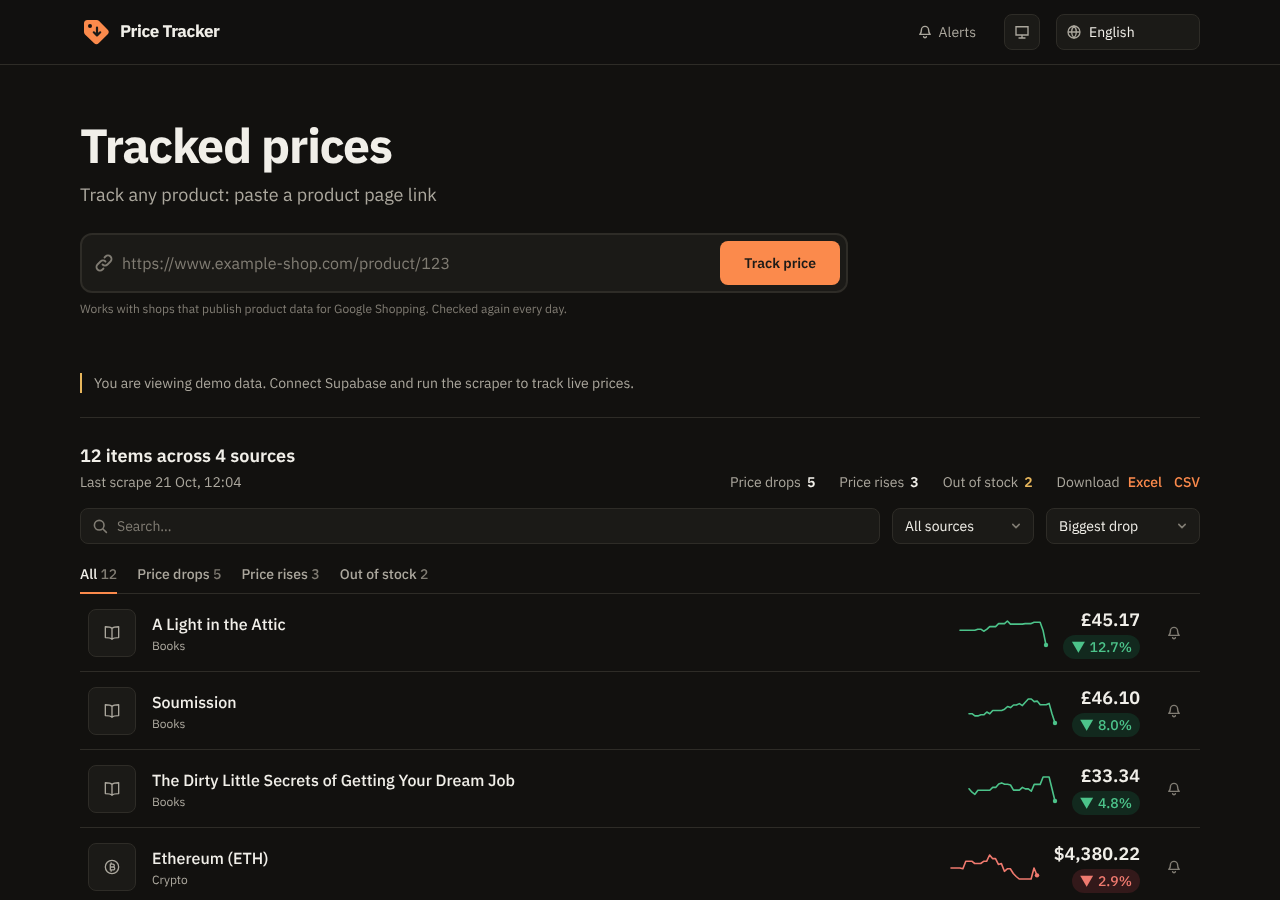
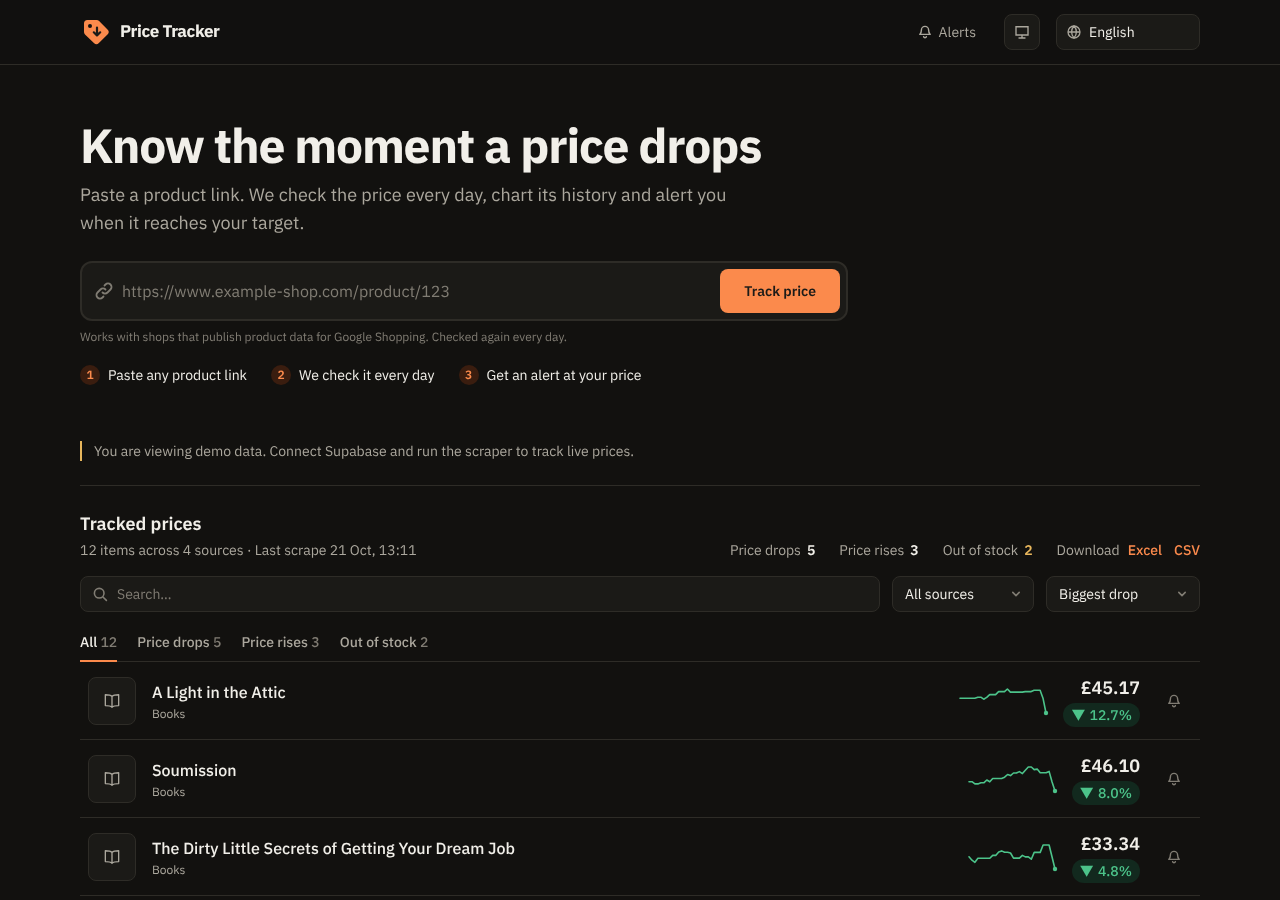
Home hero says what the site does, shows the paste box to signed-out visitors and keeps their link through sign-in
Claude-Session: https://claude.ai/code/session_01MPqhSGDmMshZ6xy3Hb712z

diff --git a/web/src/components/TrackForm.tsx b/web/src/components/TrackForm.tsx
@@ -1,11 +1,13 @@
 "use client";
 
 import { useRouter } from "next/navigation";
-import { useState } from "react";
+import { useEffect, useState } from "react";
 import { useI18n } from "@/i18n/client";
 import { money } from "@/lib/format";
 import { useUser } from "@/lib/auth";
 import { authEnabled } from "@/lib/supabase/client";
+
+const PENDING_KEY = "pending-link";
 
 type Preview = { title: string; price: number; currency: string | null };
 type State = { kind: "idle" | "saving" } | { kind: "demo"; product: Preview } | { kind: "error"; message: string };
@@ -16,9 +18,27 @@ export function TrackForm() {
   const [url, setUrl] = useState("");
   const [state, setState] = useState<State>({ kind: "idle" });
   const user = useUser();
+  const signedOut = authEnabled && user === null;
+
+  // A link pasted before signing in waits here and is back in the box after sign-in.
+  useEffect(() => {
+    try {
+      const pending = sessionStorage.getItem(PENDING_KEY);
+      if (!pending) return;
+      sessionStorage.removeItem(PENDING_KEY);
+      setUrl(pending); // eslint-disable-line react-hooks/set-state-in-effect -- browser-only storage, read once after mount
+    } catch {}
+  }, []);
 
   async function submit(e: React.FormEvent) {
     e.preventDefault();
+    if (signedOut) {
+      try {
+        sessionStorage.setItem(PENDING_KEY, url);
+      } catch {}
+      router.push(href("/login"));
+      return;
+    }
     setState({ kind: "saving" });
     const res = await fetch("/api/track", {
       method: "POST",
@@ -36,29 +56,13 @@ export function TrackForm() {
     else setState({ kind: "error", message: apiError(json?.error) });
   }
 
-  if (authEnabled && !user) {
-    return (
-      <div className="flex flex-col gap-3 rounded-xl border border-line bg-card p-3 ps-4 sm:flex-row sm:items-center">
-        <p className="flex-1 text-sm text-muted">{t.track.signIn}</p>
-        {user === null && (
-          <a
-            href={href("/login")}
-            className="shrink-0 rounded-lg bg-accent px-4 py-2.5 text-center text-sm font-semibold text-accent-ink hover:opacity-90"
-          >
-            {t.alertForm.signInButton}
-          </a>
-        )}
-      </div>
-    );
-  }
-
   return (
     <div>
       <form onSubmit={submit}>
         <label htmlFor="track-url" className="sr-only">
           {t.track.label}
         </label>
-        <div className="flex items-center gap-2 rounded-xl border-2 border-line bg-card p-1.5 ps-3 focus-within:border-accent">
+        <div className="flex flex-wrap items-center gap-2 rounded-xl border-2 border-line bg-card p-1.5 ps-3 focus-within:border-accent sm:flex-nowrap">
           <svg
             viewBox="0 0 20 20"
             className="size-5 shrink-0 text-faint"
@@ -78,12 +82,12 @@ export function TrackForm() {
             placeholder={t.track.placeholder}
             value={url}
             onChange={(e) => setUrl(e.target.value)}
-            className="h-11 min-w-0 flex-1 bg-transparent text-base text-ink placeholder:text-faint focus:outline-none"
+            className="h-11 min-w-0 flex-1 basis-40 bg-transparent text-base text-ink placeholder:text-faint focus:outline-none"
           />
           <button
             type="submit"
             disabled={state.kind === "saving"}
-            className="h-11 shrink-0 rounded-lg bg-accent px-4 text-sm font-semibold text-accent-ink hover:opacity-90 disabled:opacity-60 sm:px-6"
+            className="h-11 w-full shrink-0 rounded-lg bg-accent px-4 text-sm font-semibold text-accent-ink hover:opacity-90 disabled:opacity-60 sm:w-auto sm:px-6"
           >
             {state.kind === "saving" ? t.track.reading : t.track.submit}
           </button>
@@ -99,7 +103,7 @@ export function TrackForm() {
           {fill(t.track.found, { title: state.product.title, price: money(state.product.price, state.product.currency, lang) })}
         </p>
       )}
-      <p className="mt-2 text-xs text-faint">{t.track.hint}</p>
+      <p className="mt-2 text-xs text-faint">{signedOut ? t.track.signIn : t.track.hint}</p>
     </div>
   );
 }

diff --git a/web/src/app/[lang]/page.tsx b/web/src/app/[lang]/page.tsx
@@ -22,9 +22,19 @@ export default async function Home({ params }: PageProps<"/[lang]">) {
   return (
     <main className="mx-auto w-full max-w-6xl px-4 pb-12">
       <section className="max-w-3xl py-6 sm:py-14">
-        <h1 className="text-3xl font-bold tracking-tight text-balance sm:text-5xl">{t.home.title}</h1>
-        <p className="mt-2 mb-5 text-base text-muted sm:mt-3 sm:mb-6 sm:text-lg">{t.track.label}</p>
+        <h1 className="text-3xl font-bold tracking-tight text-balance sm:text-5xl">{t.home.heroTitle}</h1>
+        <p className="mt-2 mb-5 max-w-2xl text-base text-pretty text-muted sm:mt-3 sm:mb-6 sm:text-lg">{t.home.heroLead}</p>
         <TrackForm />
+        <ol className="mt-5 hidden flex-wrap gap-x-6 gap-y-2 text-sm text-ink sm:flex">
+          {[t.home.step1, t.home.step2, t.home.step3].map((step, i) => (
+            <li key={i} className="flex items-center gap-2">
+              <span className="grid size-5 place-items-center rounded-full bg-accent-soft text-xs font-semibold text-accent tabular-nums" aria-hidden>
+                {i + 1}
+              </span>
+              {step}
+            </li>
+          ))}
+        </ol>
       </section>
 
       {isDemo && (
@@ -33,16 +43,17 @@ export default async function Home({ params }: PageProps<"/[lang]">) {
 
       <div className="mb-4 flex flex-wrap items-end justify-between gap-x-8 gap-y-3 border-t border-line pt-6">
         <div>
-          <h2 className="text-lg font-semibold">
-            {fill(t.home.summary, { items: products.length, sources: new Set(products.map((p) => p.source)).size })}
-          </h2>
-          <p className="mt-0.5 text-sm text-muted">{lastRun ? fill(t.home.lastScrape, { date: dateTime(lastRun, lang) }) : t.home.noScrapes}</p>
+          <h2 className="text-lg font-semibold">{t.home.title}</h2>
+          <p className="mt-0.5 text-sm text-muted">
+            {fill(t.home.summary, { items: products.length, sources: new Set(products.map((p) => p.source)).size })} ·{" "}
+            {lastRun ? fill(t.home.lastScrape, { date: dateTime(lastRun, lang) }) : t.home.noScrapes}
+          </p>
         </div>
         <dl className="flex flex-wrap gap-x-6 gap-y-1 text-sm">
           <Figure label={t.home.priceDrops} value={drops} tone="text-ink" />
           <Figure label={t.home.priceRises} value={rises} tone="text-ink" />
           <Figure label={t.home.outOfStock} value={outOfStock} tone={outOfStock ? "text-warn" : "text-ink"} />
-          <div className="flex items-baseline gap-2">
+          <div className="hidden items-baseline gap-2 sm:flex">
             <dt className="text-muted">{t.home.download}</dt>
             <dd className="flex gap-3 font-medium">
               <a href={`/api/export?format=xlsx&lang=${lang}`} className="text-accent underline-offset-4 hover:underline">

diff --git a/web/src/i18n/dictionaries/hi.ts b/web/src/i18n/dictionaries/hi.ts
@@ -41,6 +41,11 @@ const hi: Dict = {
     custom: "लिंक से जोड़े गए",
   },
   home: {
+    heroTitle: "कीमत गिरते ही जानें",
+    heroLead: "किसी प्रोडक्ट का लिंक पेस्ट करें। हम हर दिन कीमत जाँचते हैं, उसका इतिहास दिखाते हैं और आपके लक्ष्य तक पहुँचने पर सूचना देते हैं।",
+    step1: "किसी भी प्रोडक्ट का लिंक पेस्ट करें",
+    step2: "हम इसे हर दिन जाँचते हैं",
+    step3: "अपनी कीमत पर अलर्ट पाएँ",
     title: "ट्रैक की जा रही कीमतें",
     lastScrape: "पिछला स्क्रेप {date}",
     noScrapes: "अभी तक कोई स्क्रेप नहीं",

diff --git a/web/src/i18n/dictionaries/th.ts b/web/src/i18n/dictionaries/th.ts
@@ -41,6 +41,11 @@ const th: Dict = {
     custom: "เพิ่มจากลิงก์",
   },
   home: {
+    heroTitle: "รู้ทันทีเมื่อราคาลดลง",
+    heroLead: "วางลิงก์สินค้า เราตรวจราคาทุกวัน แสดงประวัติราคา และแจ้งเตือนเมื่อถึงราคาที่คุณต้องการ",
+    step1: "วางลิงก์สินค้าใดก็ได้",
+    step2: "เราตรวจทุกวัน",
+    step3: "รับการแจ้งเตือนที่ราคาของคุณ",
     title: "ราคาที่ติดตาม",
     lastScrape: "ดึงข้อมูลล่าสุด {date}",
     noScrapes: "ยังไม่มีการดึงข้อมูล",

diff --git a/web/src/i18n/dictionaries/el.ts b/web/src/i18n/dictionaries/el.ts
@@ -41,6 +41,11 @@ const el: Dict = {
     custom: "Προστέθηκαν με σύνδεσμο",
   },
   home: {
+    heroTitle: "Μάθε αμέσως πότε πέφτει μια τιμή",
+    heroLead: "Επικόλλησε τον σύνδεσμο ενός προϊόντος. Ελέγχουμε την τιμή κάθε μέρα, δείχνουμε το ιστορικό της και σε ειδοποιούμε όταν φτάσει τον στόχο σου.",
+    step1: "Επικόλλησε οποιονδήποτε σύνδεσμο",
+    step2: "Τον ελέγχουμε κάθε μέρα",
+    step3: "Ειδοποίηση στην τιμή σου",
     title: "Τιμές υπό παρακολούθηση",
     lastScrape: "Τελευταία συλλογή {date}",
     noScrapes: "Καμία συλλογή ακόμη",

diff --git a/web/src/i18n/dictionaries/uk.ts b/web/src/i18n/dictionaries/uk.ts
@@ -41,6 +41,11 @@ const uk: Dict = {
     custom: "Додано за посиланням",
   },
   home: {
+    heroTitle: "Дізнайтеся одразу, коли ціна впаде",
+    heroLead: "Вставте посилання на товар. Ми перевіряємо ціну щодня, показуємо її історію та повідомляємо, коли вона досягне вашої мети.",
+    step1: "Вставте посилання на будь-який товар",
+    step2: "Перевіряємо щодня",
+    step3: "Сповіщення при вашій ціні",
     title: "Відстежувані ціни",
     lastScrape: "Останній збір {date}",
     noScrapes: "Зборів ще не було",

diff --git a/web/src/i18n/dictionaries/ru.ts b/web/src/i18n/dictionaries/ru.ts
@@ -41,6 +41,11 @@ const ru: Dict = {
     custom: "Добавлено по ссылке",
   },
   home: {
+    heroTitle: "Узнайте сразу, когда цена упадёт",
+    heroLead: "Вставьте ссылку на товар. Мы проверяем цену каждый день, показываем её историю и сообщаем, когда она достигнет вашей цели.",
+    step1: "Вставьте ссылку на любой товар",
+    step2: "Проверяем каждый день",
+    step3: "Уведомление при вашей цене",
     title: "Отслеживаемые цены",
     lastScrape: "Последний сбор {date}",
     noScrapes: "Сборов ещё не было",

diff --git a/web/src/i18n/dictionaries/ar.ts b/web/src/i18n/dictionaries/ar.ts
@@ -41,6 +41,11 @@ const ar: Dict = {
     custom: "مضاف عبر رابط",
   },
   home: {
+    heroTitle: "اعرف فور انخفاض السعر",
+    heroLead: "الصق رابط المنتج. نتحقق من السعر يوميًا ونعرض سجله وننبهك عندما يصل إلى السعر الذي تريده.",
+    step1: "الصق رابط أي منتج",
+    step2: "نتحقق منه يوميًا",
+    step3: "احصل على تنبيه عند سعرك",
     title: "الأسعار المتتبَّعة",
     lastScrape: "آخر جمع {date}",
     noScrapes: "لم يتم أي جمع بعد",

diff --git a/web/src/i18n/dictionaries/vi.ts b/web/src/i18n/dictionaries/vi.ts
@@ -41,6 +41,11 @@ const vi: Dict = {
     custom: "Thêm bằng liên kết",
   },
   home: {
+    heroTitle: "Biết ngay khi giá giảm",
+    heroLead: "Dán liên kết sản phẩm. Chúng tôi kiểm tra giá mỗi ngày, hiển thị lịch sử giá và báo cho bạn khi giá đạt mục tiêu.",
+    step1: "Dán bất kỳ liên kết sản phẩm nào",
+    step2: "Chúng tôi kiểm tra mỗi ngày",
+    step3: "Nhận cảnh báo ở mức giá của bạn",
     title: "Giá đang theo dõi",
     lastScrape: "Lần thu thập gần nhất {date}",
     noScrapes: "Chưa thu thập lần nào",

diff --git a/web/src/i18n/dictionaries/ko.ts b/web/src/i18n/dictionaries/ko.ts
@@ -41,6 +41,11 @@ const ko: Dict = {
     custom: "링크로 추가",
   },
   home: {
+    heroTitle: "가격이 내려가는 순간을 알려드려요",
+    heroLead: "상품 링크를 붙여넣으세요. 매일 가격을 확인하고 기록을 차트로 보여주며 목표 가격에 도달하면 알려드립니다.",
+    step1: "상품 링크 붙여넣기",
+    step2: "매일 확인",
+    step3: "원하는 가격에 알림",
     title: "추적 중인 가격",
     lastScrape: "마지막 수집 {date}",
     noScrapes: "아직 수집 기록이 없습니다",

diff --git a/web/src/i18n/dictionaries/it.ts b/web/src/i18n/dictionaries/it.ts
@@ -41,6 +41,11 @@ const it: Dict = {
     custom: "Aggiunti tramite link",
   },
   home: {
+    heroTitle: "Scopri subito quando un prezzo scende",
+    heroLead: "Incolla il link di un prodotto. Controlliamo il prezzo ogni giorno, ne mostriamo lo storico e ti avvisiamo quando raggiunge il tuo obiettivo.",
+    step1: "Incolla un link di prodotto",
+    step2: "Lo controlliamo ogni giorno",
+    step3: "Ricevi un avviso al tuo prezzo",
     title: "Prezzi monitorati",
     lastScrape: "Ultima rilevazione {date}",
     noScrapes: "Nessuna rilevazione ancora",

diff --git a/web/src/i18n/dictionaries/de.ts b/web/src/i18n/dictionaries/de.ts
@@ -41,6 +41,11 @@ const de: Dict = {
     custom: "Per Link hinzugefügt",
   },
   home: {
+    heroTitle: "Erfahre sofort, wenn ein Preis fällt",
+    heroLead: "Füge einen Produktlink ein. Wir prüfen den Preis täglich, zeigen seinen Verlauf und benachrichtigen dich, sobald dein Zielpreis erreicht ist.",
+    step1: "Beliebigen Produktlink einfügen",
+    step2: "Wir prüfen ihn täglich",
+    step3: "Benachrichtigung bei deinem Preis",
     title: "Verfolgte Preise",
     lastScrape: "Letzter Abruf {date}",
     noScrapes: "Noch keine Abrufe",
